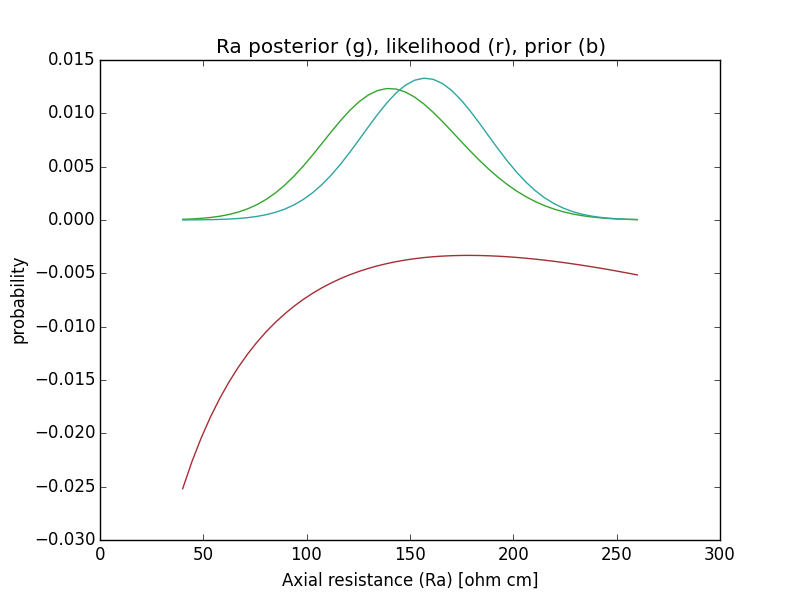
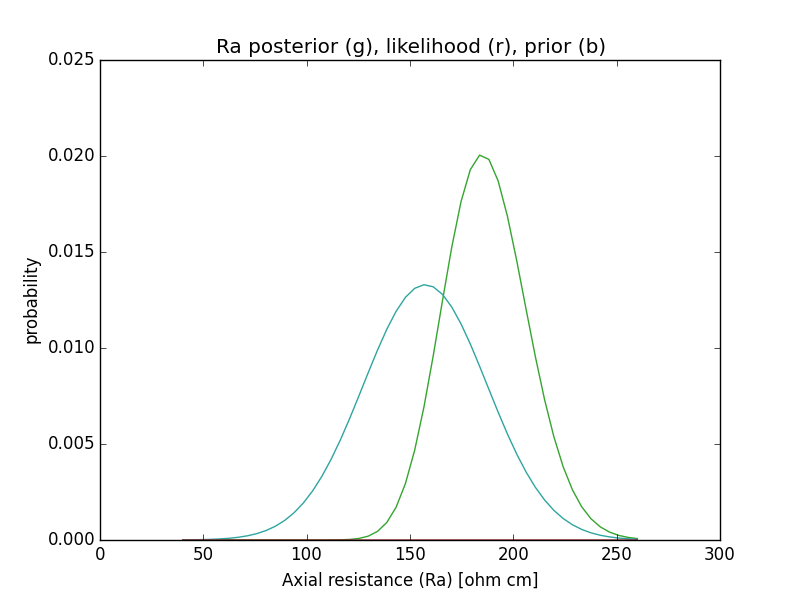
Correct likelihood

diff --git a/expference.py b/expference.py
@@ -17,6 +17,7 @@ from matplotlib import cm as CM
 from matplotlib.ticker import LinearLocator, FormatStrFormatter
 import multiprocessing
 from multiprocessing import Pool
+from functools import partial
 
 def experiment_sim(Ra, gpas, dt=0.1):
     # -- Biophysics --
@@ -130,10 +131,10 @@ if run:
 shape = (len(Ra.values), len(gpas.values))
 
 
-def work(param_set):
-    (_, v) = experiment_sim(param_set[0], param_set[1])
-    v_dev = np.subtract(exp_v, v)
-    return - np.sum(np.square(v_dev)) / (2 * noise_sigma ** 2)
+def work(param_set, simulation_func, target_trace):
+    (_, v) = simulation_func(param_set[0], param_set[1])
+    v_dev = np.subtract(target_trace, v)
+    return np.exp(- np.sum(np.square(v_dev)) / (2 * noise_sigma ** 2))
 
 
 param_seq = []
@@ -145,7 +146,7 @@ likelihood = []
 # Multi processing
 if __name__ == '__main__':
     pool = Pool(multiprocessing.cpu_count())
-    likelihood = pool.map(work, param_seq)
+    likelihood = pool.map(partial(work, simulation_func=experiment_sim, target_trace=exp_v), param_seq)
     pool.close()
     pool.join()
 

diff --git a/module/sparese_inv_covmat.m b/module/sparese_inv_covmat.m
@@ -1,0 +1,19 @@
+function [ inv_covmat] = sparese_inv_covmat(D, lamb, t)
+len = numel(t);
+covmat = zeros(len,len);
+
+for i = 1:len
+    t1 = t(i);
+    for j = 1:len
+        t2 = t(j);
+        covmat(i,j) = D * lamb * exp(-lamb * abs(t1 - t2));
+    end
+end
+
+S = sparse(covmat);
+C = inv(S);
+inv_covmat = full(C);
+
+% Run function with these settings:
+% t = linspace(0,1500,30000)
+% invcovmat = inv_covmat(30, 0.1, t)

diff --git a/module/likelihood.py b/module/likelihood.py
@@ -62,3 +62,4 @@ def dependent_2d(simulation_func, x_values, y_values, inv_covmat, target_trace):
     log_likelihood = np.subtract(log_likelihood, np.amax(log_likelihood))
 
     return np.exp(log_likelihood)
+
